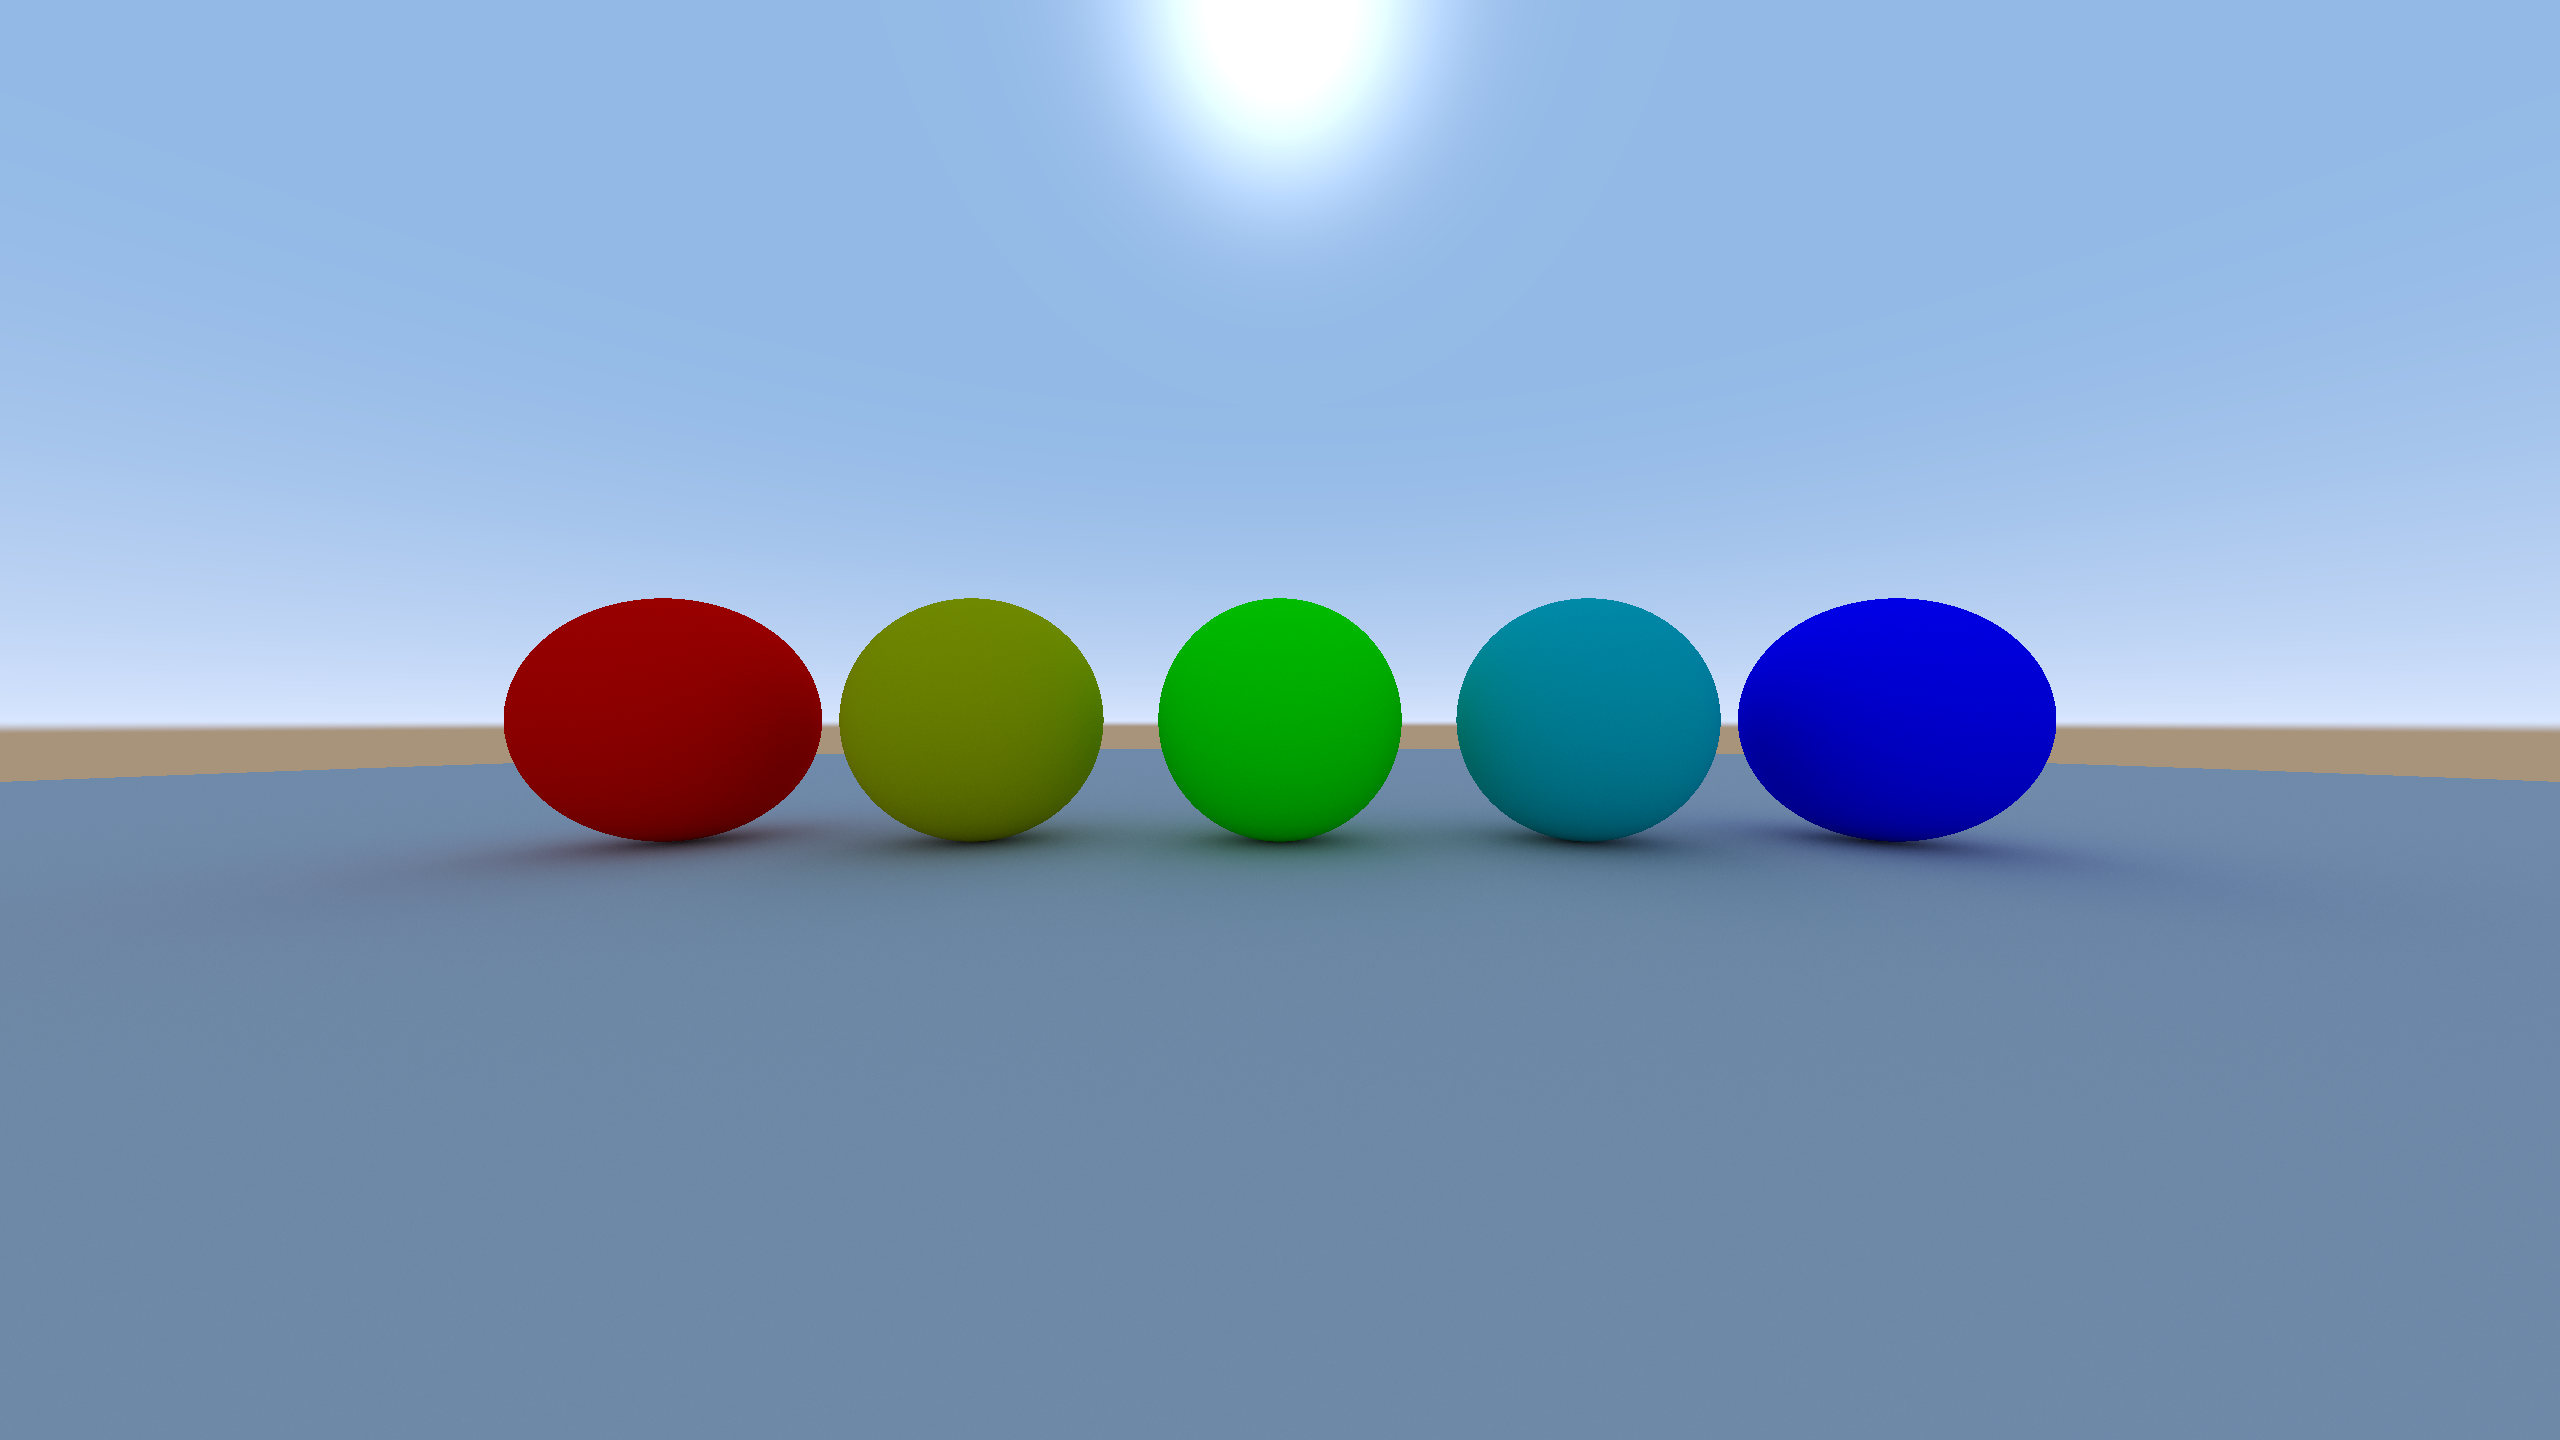
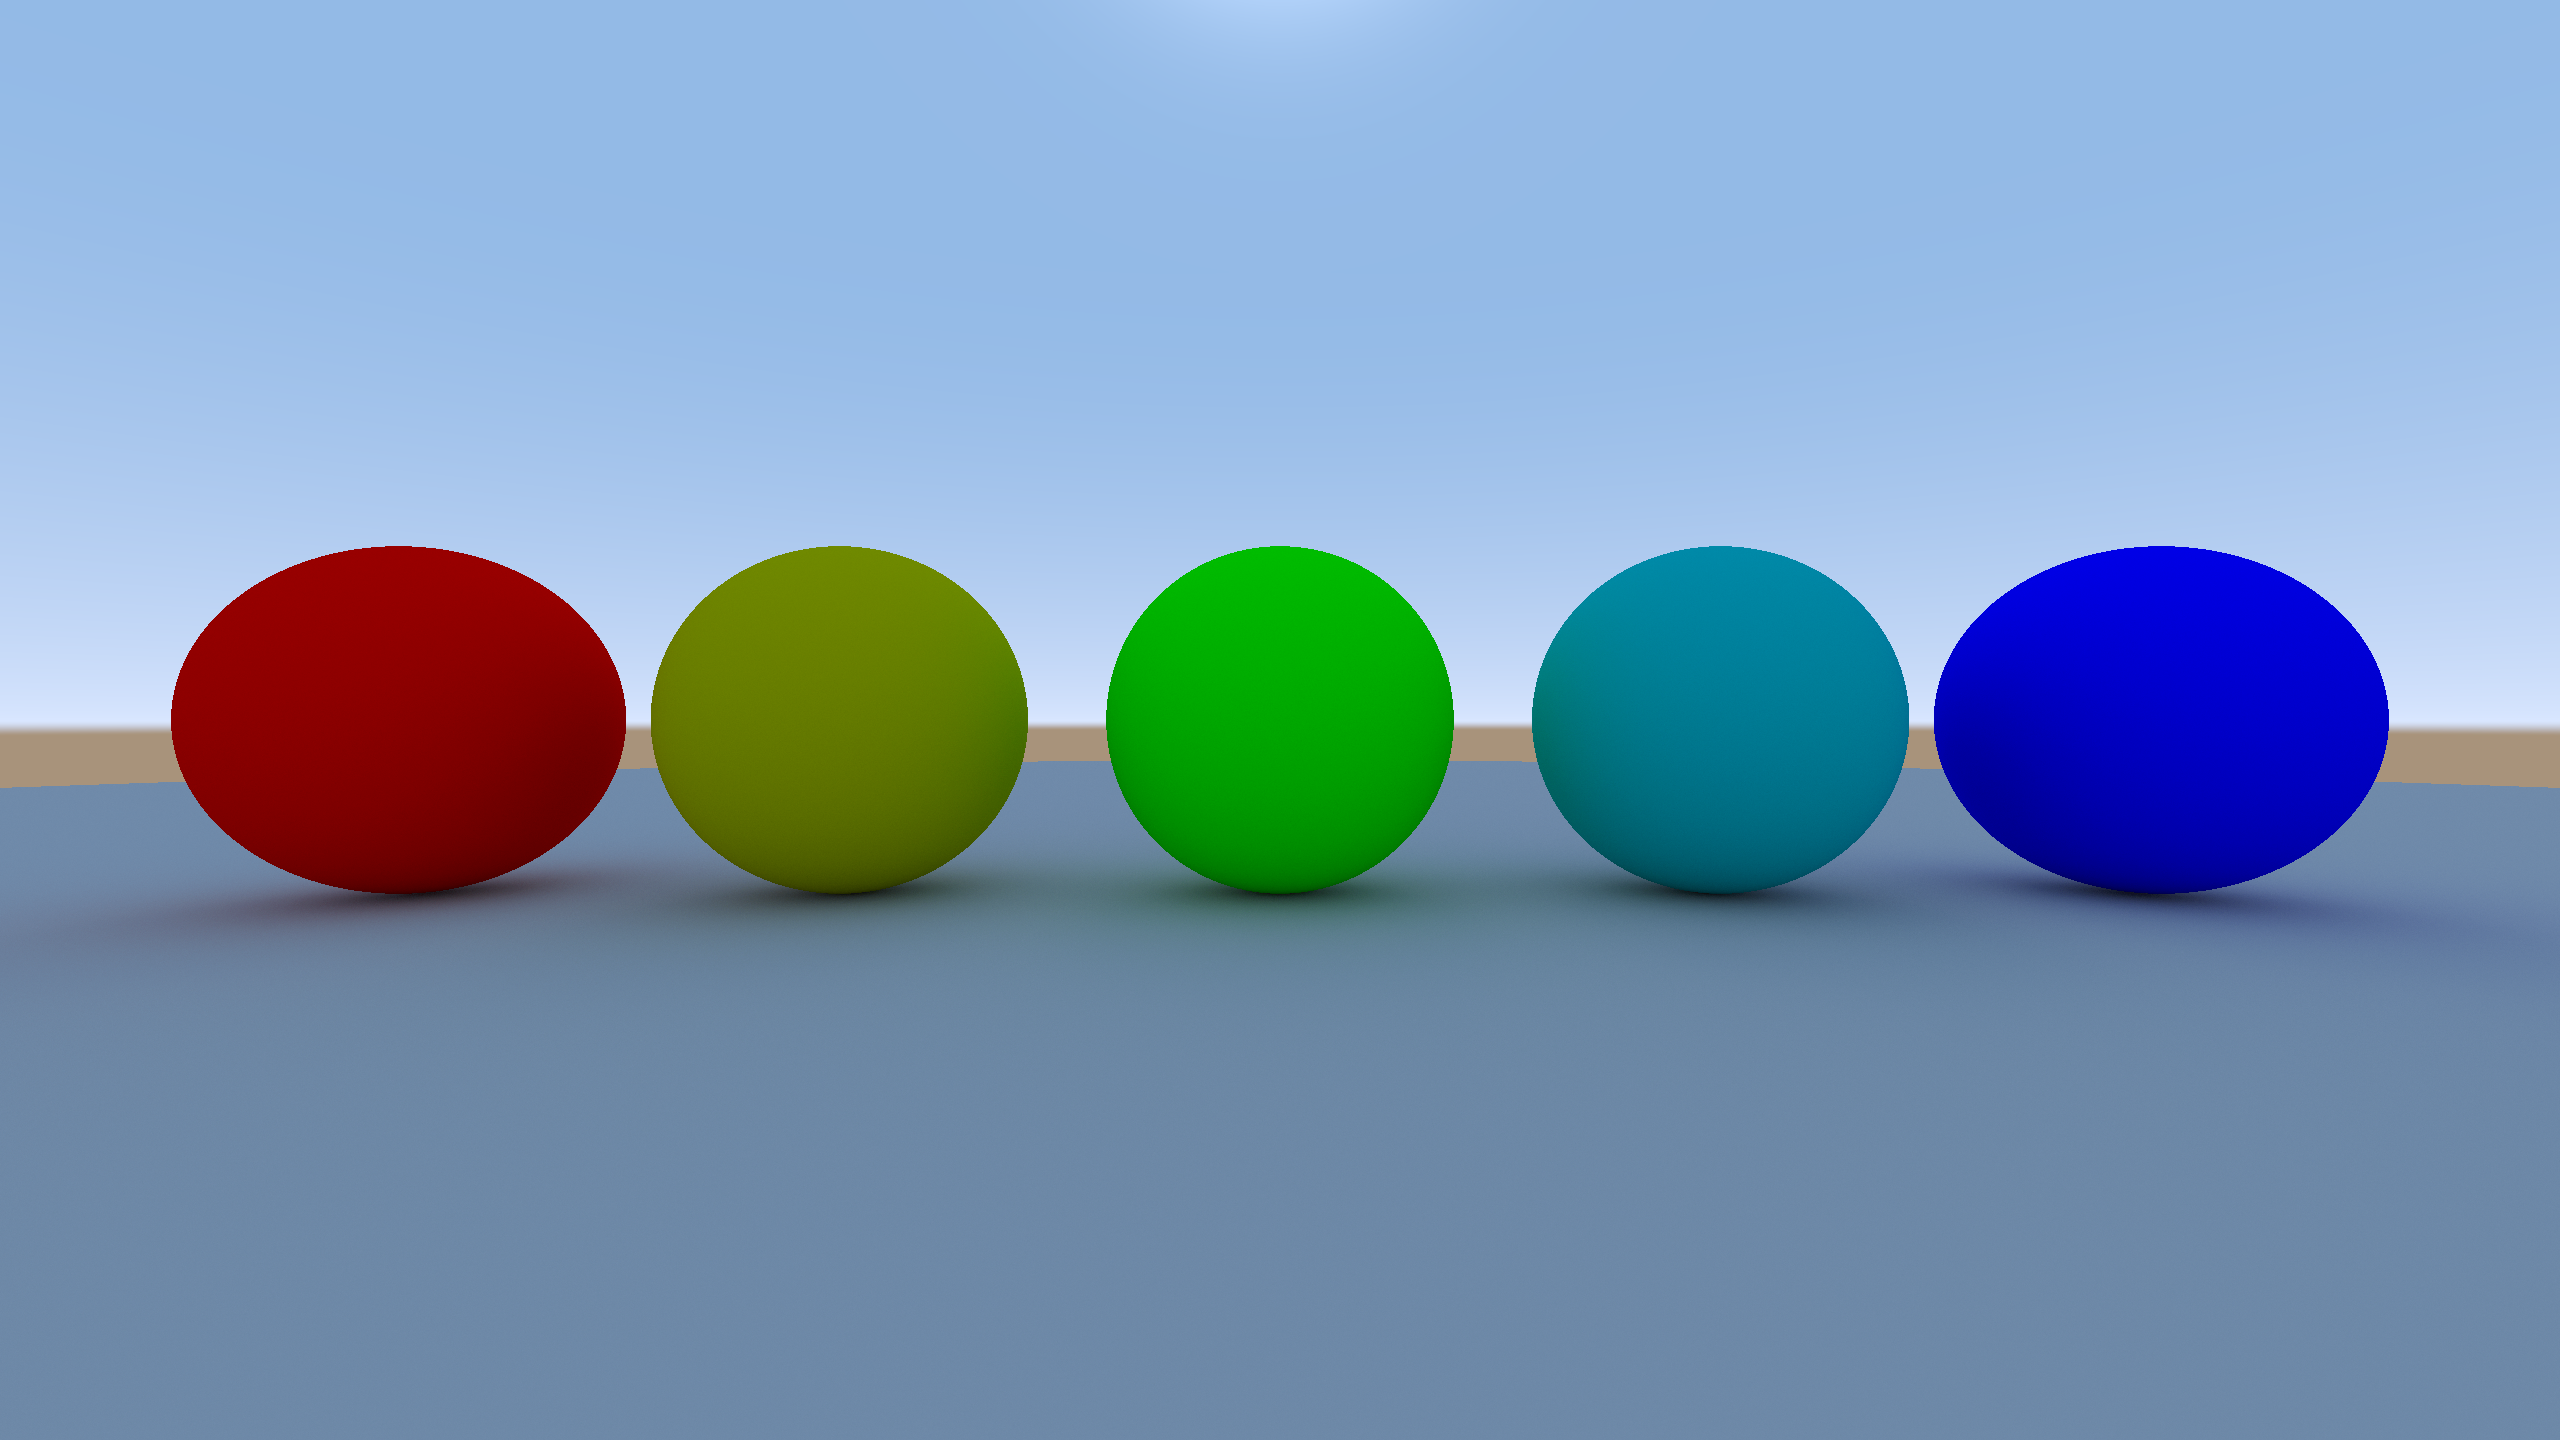
x.2 removed specular colro ray tracing

Changed region(s): [[0.0, 0.375, 1.0, 0.6562], [0.4062, 0.0, 0.5938, 0.1562]]

diff --git a/24-25/FCG/RayTracing/src/main.cpp b/24-25/FCG/RayTracing/src/main.cpp
@@ -14,16 +14,14 @@ struct vec3 {
 struct Material {
     vec3 colour;
     vec3 emissionColour;
-    vec3 specularColour;
-    float emissionStrength;
     float smoothness;
+    float emissionStrength;
     float specularProbability;
     float ir;
 
-    Material(const vec3& col, const vec3& emission = vec3(0,0,0), 
-            const vec3& specular = vec3(1,1,1), float emitStrength = 0.0f,
-            float smooth = 0.0f, float specProb = 0.0f , float ir = 0.0f)
-        : colour(col), emissionColour(emission), specularColour(specular),
+    Material(const vec3& col, const vec3& emission = vec3(0,0,0), float emitStrength = 0.0f,float smooth = 0.0f,
+             float specProb = 1.0f , float ir = 0.0f)
+        : colour(col), emissionColour(emission),
           emissionStrength(emitStrength), smoothness(smooth), specularProbability(specProb) , ir(ir) {}
 };
 
@@ -87,40 +85,46 @@ int main() {
     // Add ground sphere (large sphere to act as ground)
     spheres.push_back({
         vec3(0.0f, -1000.0f, 0.0f), 1000.0f,
-        Material(vec3(0.5f, 0.5f, 0.5f), vec3(0, 0, 0), vec3(0, 0, 0), 0.0f, 0.0f, 0.0f, 0.0f)
+        Material(vec3(0.5f, 0.5f, 0.5f))
     });
+
     
-    // add line of spheres
+    // Aggiungiamo una fila di sfere colorate
+    // Sfera rossa
     spheres.push_back({
         vec3(-5.0f, 1.0f, 0.0f), 1.0f,
-        Material(vec3(1.0f, 0.0f, 0.0f), vec3(0, 0, 0), vec3(0, 0, 0), 0.0f, 0.0f, 0.0f, 0.0f)
+        Material(vec3(1.0f, 0.0f, 0.0f))
     });
-    
+
+    // Sfera gialla
     spheres.push_back({
         vec3(-2.5f, 1.0f, 0.0f), 1.0f,
-        Material(vec3(.5f, .5f, 0.0f), vec3(0, 0, 0), vec3(0, 0, 0), 0.0f, 0.0f, 0.0f, 0.0f)
+        Material(vec3(0.5f, 0.5f, 0.0f))
     });
-    
+
+    // Sfera verde
     spheres.push_back({
         vec3(0.0f, 1.0f, 0.0f), 1.0f,
-        Material(vec3(0.0f, 1.0f, 0.0f), vec3(0, 0, 0), vec3(0, 0, 0), 0.0f, 0.0f, 0.0f, 0.0f)
+        Material(vec3(0.0f, 1.0f, 0.0f))
     });
 
+    // Sfera ciano
     spheres.push_back({
         vec3(2.5f, 1.0f, 0.0f), 1.0f,
-        Material(vec3(0.0f, .5f, .5f), vec3(0, 0, 0), vec3(0, 0, 0), 0.0f, 0.0f, 0.0f, 0.0f)
+        Material(vec3(0.0f, 0.5f, 0.5f))
     });
 
+    // Sfera blu
     spheres.push_back({
         vec3(5.0f, 1.0f, 0.0f), 1.0f,
-        Material(vec3(0.0f, 0.0f, 1.0f), vec3(0, 0, 0), vec3(0, 0, 0), 0.0f, 0.0f, 0.0f, 0.0f)
+        Material(vec3(0.0f, 0.0f, 1.0f))
     });
 
-   //--------------------------------------------------------------//
+    //--------------------------------------------------------------//
 
     std::vector<sf::Glsl::Vec3> sphereCenters;
     std::vector<float> sphereRadii;
-    std::vector<sf::Glsl::Vec3> sphereColors, sphereEmissionColors, sphereSpecularColors;
+    std::vector<sf::Glsl::Vec3> sphereColors, sphereEmissionColors;
     std::vector<float> sphereEmissionStrengths, sphereSmoothness, sphereSpecularProbs, sphereIRs;
 
     for (const auto& sphere : spheres) {
@@ -130,11 +134,8 @@ int main() {
         sphereEmissionColors.emplace_back(sphere.material.emissionColour.x, 
                                         sphere.material.emissionColour.y, 
                                         sphere.material.emissionColour.z);
-        sphereSpecularColors.emplace_back(sphere.material.specularColour.x, 
-                                        sphere.material.specularColour.y, 
-                                        sphere.material.specularColour.z);
-        sphereEmissionStrengths.push_back(sphere.material.emissionStrength);
         sphereSmoothness.push_back(sphere.material.smoothness);
+        sphereEmissionStrengths.push_back(sphere.material.emissionStrength);
         sphereSpecularProbs.push_back(sphere.material.specularProbability);
         sphereIRs.push_back(sphere.material.ir);
     }
@@ -143,7 +144,6 @@ int main() {
     shader.setUniformArray("sphereRadii", sphereRadii.data(), sphereRadii.size());
     shader.setUniformArray("sphereColors", sphereColors.data(), sphereColors.size());
     shader.setUniformArray("sphereEmissionColors", sphereEmissionColors.data(), sphereEmissionColors.size());
-    shader.setUniformArray("sphereSpecularColors", sphereSpecularColors.data(), sphereSpecularColors.size());
     shader.setUniformArray("sphereEmissionStrengths", sphereEmissionStrengths.data(), sphereEmissionStrengths.size());
     shader.setUniformArray("sphereSmoothness", sphereSmoothness.data(), sphereSmoothness.size());
     shader.setUniformArray("sphereSpecularProbs", sphereSpecularProbs.data(), sphereSpecularProbs.size());

diff --git a/24-25/FCG/RayTracing/renders/README.md b/24-25/FCG/RayTracing/renders/README.md
@@ -5,9 +5,9 @@ Per fare un render dobbiamo fare il setup, dobbiamo settare la telecamera e la s
 ### Configurazione della telecamera
 
 Per la telecamera nelle shader dobbiamo impostare:
-- `lookfrom`: la posizione della telecamera che metteremo a `vec3(0, 1, 5)`
+- `lookfrom`: la posizione della telecamera che metteremo a `vec3(0, 1, 6)`
 - `lookat`: la coordinata che guarda sarà al centro del render che mettiamo a `vec3(0, 1, 0)`
-- `cameraFov`: l'angolo di visuale che lasceremo sempre a 90 gradi
+- `cameraFov`: l'angolo di visuale che lasceremo principale a 70 gradi
 
 ### Configurazione della scena
 
@@ -30,7 +30,7 @@ Prima, mettiamo una sfera molto grande e grigia che sarà il nostro terreno:
 ```cpp
 spheres.push_back({
     vec3(0.0f, -1000.0f, 0.0f), 1000.0f,
-    Material(vec3(0.5f, 0.5f, 0.5f), vec3(0, 0, 0), vec3(0, 0, 0), 0.0f, 0.0f, 0.0f, 0.0f)
+    Material(vec3(0.5f, 0.5f, 0.5f))
 });
 ```
 
@@ -43,31 +43,31 @@ Per creare una scena più interessante, possiamo aggiungere una serie di sfere c
 // Sfera rossa
 spheres.push_back({
     vec3(-5.0f, 1.0f, 0.0f), 1.0f,
-    Material(vec3(1.0f, 0.0f, 0.0f), vec3(0, 0, 0), vec3(0, 0, 0), 0.0f, 0.0f, 0.0f, 0.0f)
+    Material(vec3(1.0f, 0.0f, 0.0f))
 });
 
 // Sfera gialla
 spheres.push_back({
     vec3(-2.5f, 1.0f, 0.0f), 1.0f,
-    Material(vec3(0.5f, 0.5f, 0.0f), vec3(0, 0, 0), vec3(0, 0, 0), 0.0f, 0.0f, 0.0f, 0.0f)
+    Material(vec3(0.5f, 0.5f, 0.0f))
 });
 
 // Sfera verde
 spheres.push_back({
     vec3(0.0f, 1.0f, 0.0f), 1.0f,
-    Material(vec3(0.0f, 1.0f, 0.0f), vec3(0, 0, 0), vec3(0, 0, 0), 0.0f, 0.0f, 0.0f, 0.0f)
+    Material(vec3(0.0f, 1.0f, 0.0f))
 });
 
 // Sfera ciano
 spheres.push_back({
     vec3(2.5f, 1.0f, 0.0f), 1.0f,
-    Material(vec3(0.0f, 0.5f, 0.5f), vec3(0, 0, 0), vec3(0, 0, 0), 0.0f, 0.0f, 0.0f, 0.0f)
+    Material(vec3(0.0f, 0.5f, 0.5f))
 });
 
 // Sfera blu
 spheres.push_back({
     vec3(5.0f, 1.0f, 0.0f), 1.0f,
-    Material(vec3(0.0f, 0.0f, 1.0f), vec3(0, 0, 0), vec3(0, 0, 0), 0.0f, 0.0f, 0.0f, 0.0f)
+    Material(vec3(0.0f, 0.0f, 1.0f))
 });
 ```
 
@@ -96,3 +96,66 @@ in cuesto casso essendo una sferra difusione quindi il raggio riflessso sarà ca
 
 
 ### Aggiunta di riflessione
+
+ora a ogni sfera aggiungiamo la riflessione
+
+dobiame capire come impostare un materiale 
+Material(vec3(1.0f, 0.0f, 0.0f), vec3(0.0f, 0.0f, 0.0f), 0.0f, 0.0f, 1.0f, 0.0f)
+1. albedo: colore diffuso
+2. emissione: colore
+3. smoothness: rugosità della superficie
+4. emissione strength
+5. probalita riflessione
+6. indice di rifrazione
+quindi setiamo la sfera con la riflessione mettendo il smoothness a 1 e la probabilità di riflessione a 1
+quindi adando da sinitra verso destra dencrementiamo di riflessione 1 0.75 0.5 0.25 0
+
+otteniamo il render 02render.png
+
+## capimo la diferrenza tra riflessione e probabilità di riflessione
+
+se mettiamo la probabilità di riflessione a 1 e la riflessione a a 1 e poi verso destra dencrementiamo la probabilità di riflessione 1 0.75 0.5 0.25 0
+
+la riflessione è la quantità di luce riflessa dalla superficie, mentre la probabilità di riflessione è la probabilità che un raggio incidente venga riflesso dalla superficie. smoothness e un mix tra il ragio riflessso e il raggio rifratto
+
+
+### Aggiunta di rifrazione
+
+ora aggiungiamo la rifrazione che e la capacità di un materiale di far passare la luce attraverso di esso 
+cioe materiali diofani come il vetro
+
+e l'indice di rifrazione e la velocità della luce nel vuoto diviso per la velocità della luce nel materiale che e l'utimo parametro ora metiamo tutte le shere biange e metiamo una riflesione incrementale da1.25 a 1.5 a 1.75 a 2 a 2.5
+
+otteniamo il render 04render.png
+
+esendo trasparenti possiamo meterci dentro una sfera 
+nell render 05render.png la abbiamo messo tutte le sfrere con ir indice di rifrazione a 1.5
+
+la prima la abbiamo colorata di rosso e notiamo che la luce passa attraverso la sfera e la colora di rosso
+
+la seconda la secondo le abbiamo messo una sferra vuota cio ir di 1,0 
+
+la terza la abbiamo messo una sfera con un indice di rifrazione di 1,0 colorata di verde e come se avese la parte interna colorata di verde
+
+la quarta la abbiamo messo una sfera dentro
+
+la quinta la abbiamo messo una sfera reflitente
+
+
+### Aggiunta di luce emissiva
+
+ora mettiamo solo una sfera con luce emissiva
+vec3(1.0f, 1.f, 1.f), vec3(1.0f, 1.0f, 1.0f), 5.0f colore bianco e intensita 5
+e disativiamo la luce ambiente uniform bool environmentEnabled = false;
+
+se guarsiamo i render 06render.png vediamo che la luce emessa dalla  e illumina la scena ma e moto noisi il render perche per un pixel ci sono 50 campionamenti e c' una buona probabilità che il nessun raggio colpisca la sfera emissiva cosi rendendo il pixel nero ma quelli intoeno alquni la ganno colpita quindi qusta rene l'immagine molto noisi carateristica del ray tracing, per risolvere questo problema possiamo usare il denoising, che sono vari algoritmi che riducono il rumore in un immagine, uno e saper la poszione della luce e favorire i raggi che vanno verso la luce
+io ho implementato spatialFilter che prende i pixel vicini e li media per ridurre il rumore ma aumenta il blur dell'immagine da ira in poi usiamo qello si vede nel render 06_1render.png
+
+
+
+### Aggiunta più luce emissiva
+
+ora mettiamo piu luce emissiva e otteniamo il render 07render.png e se mettiamo la terra riflettente otteniamo il render 07_1render.png
+
+## conclusioni
+se mettamo tutto insieme oteniamo il render 08render.png e 09render.png
